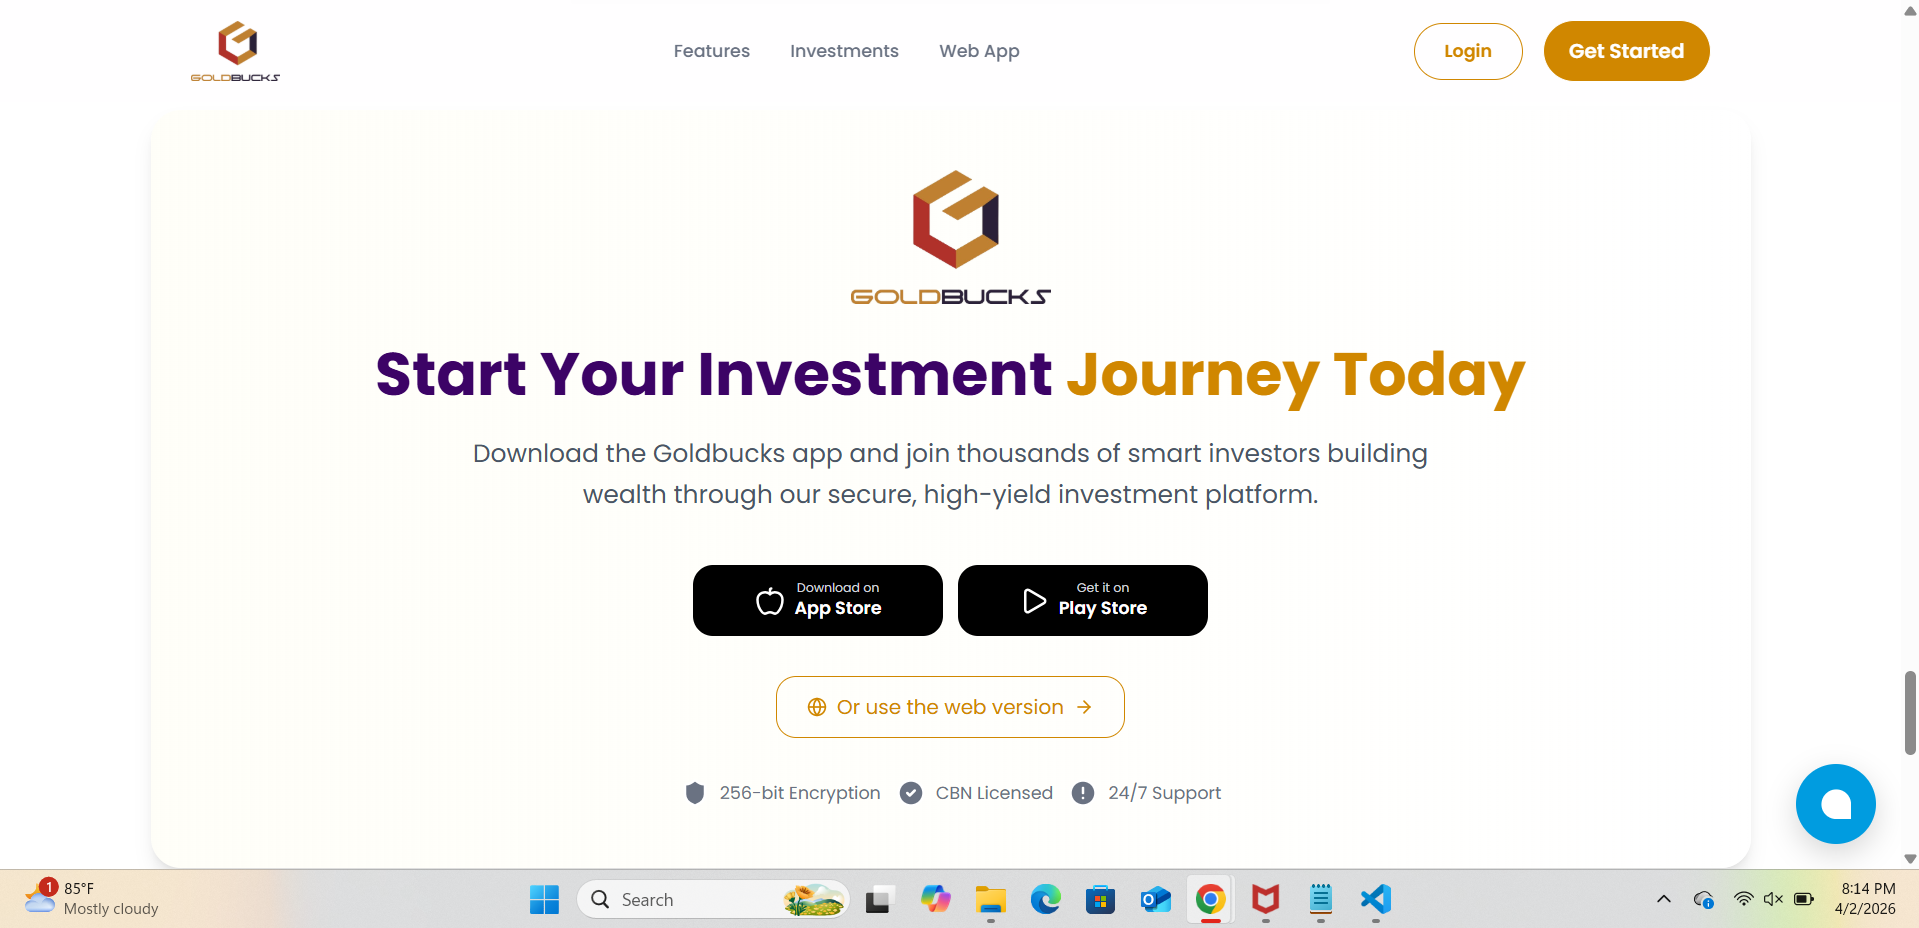
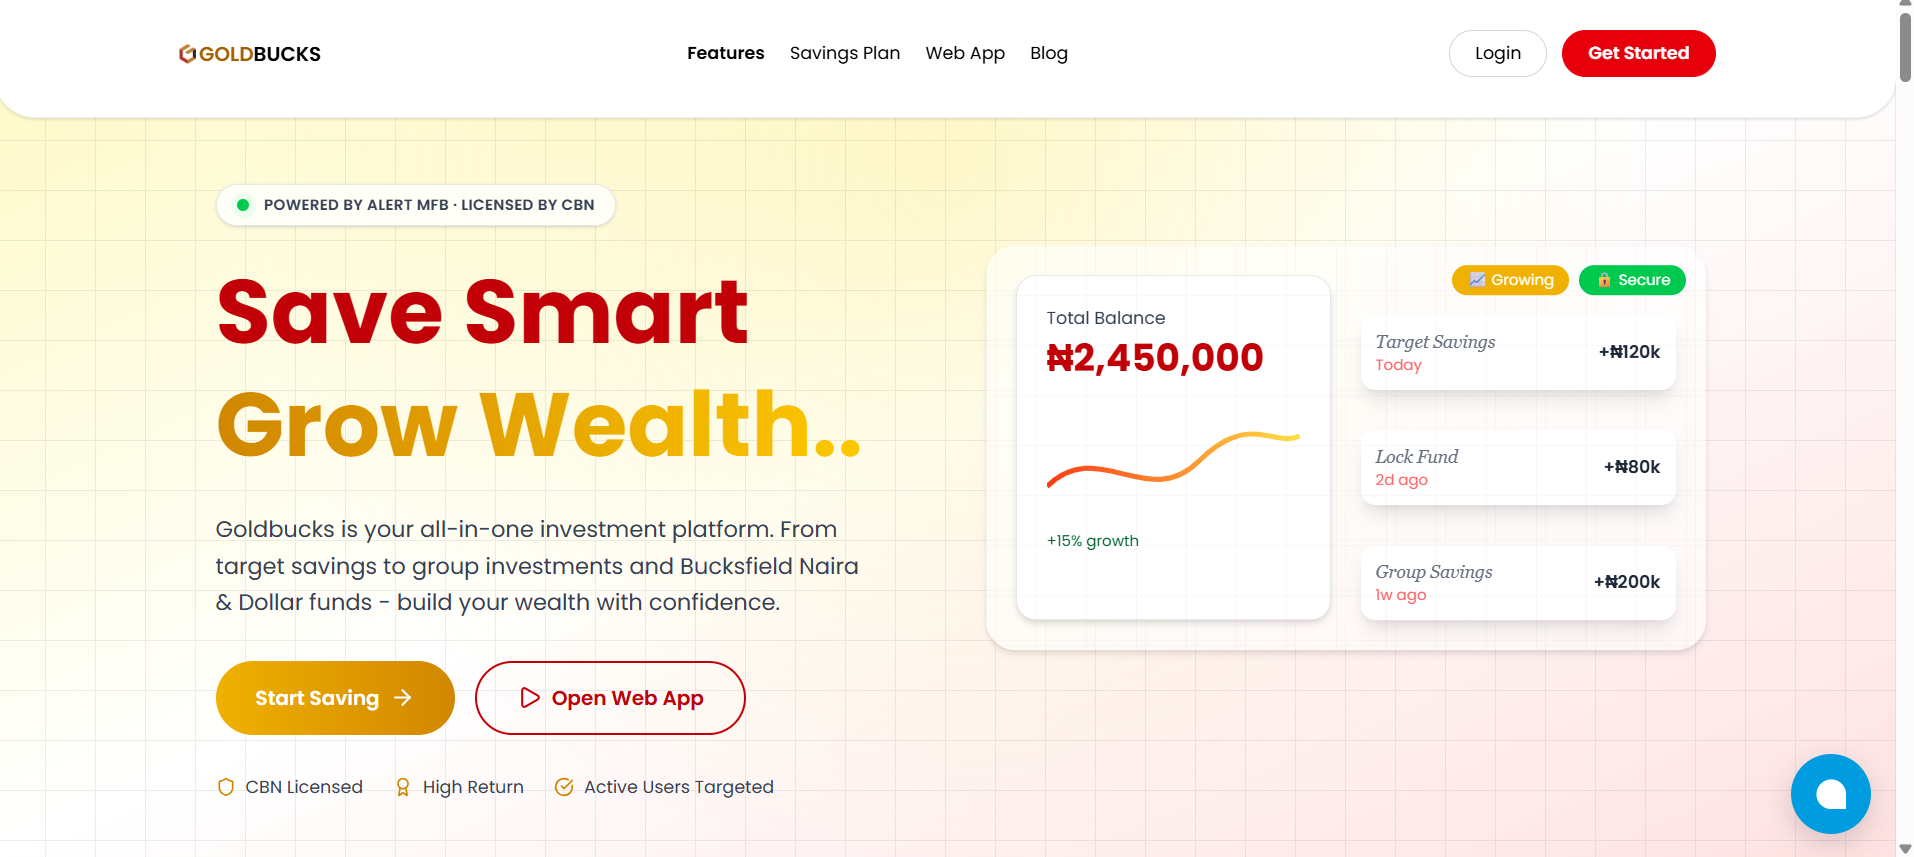
new project added

diff --git a/src/components/Projects.tsx b/src/components/Projects.tsx
@@ -26,7 +26,14 @@ const featuredProjects = [
     href: "https://elancitravels.onrender.com/",
     image: "/elanciTravels.png",
   },
-  
+  {
+    title: "Goldbucks",
+    description: "Goldbucks is your all-in-one investment platform. From target savings to group investments and Bucksfield Naira & Dollar funds - build your wealth with confidence.",
+    tech: ["React", "TypeScript", "Firebase"],
+    Address: "goldbucks.alertmfb.com.ng",
+    href: "https://www.goldbucks.alertmfb.com.ng/",
+    image: "/goldbucks.png",
+  }
 ];
 
 
@@ -77,18 +84,18 @@ const Projects = () => {
               {/* Project Content */}
               <div className={`md:col-span-6 ${index % 2 === 1 ? 'md:col-start-1 md:row-start-1' : 'md:col-start-7'} md:absolute md:inset-0 flex flex-col justify-center px-4 md:px-0`}
               >
-                <p className="text-[#64ffda] font-mono text-sm mb-2">Featured Project</p>
-                <h3 className="text-2xl md:text-3xl font-bold text-black mb-4">{project.title}</h3>
+                <p className="text-yellow-500 font-mono text-sm mb-2">Featured Project</p>
+                <h3 className="text-2xl md:text-3xl font-bold text-yellow-500 mb-4">{project.title}</h3>
                 <div className="bg-gray-100 p-6 rounded-2xl shadow-md mb-4 border border-gray-200">
-                  <p className="text-gray-600 text-sm leading-relaxed">{project.description}</p>
+                  <p className="text-gray-500 text-sm leading-relaxed">{project.description}</p>
                 </div>
-                <ul className={`flex flex-wrap gap-3 mb-6 text-sm font-mono text-gray-600 ${index % 2 === 1 ? 'md:justify-end' : ''}`}>
+                <ul className={`flex flex-wrap gap-3 mb-6 text-sm font-mono text-yellow-500 ${index % 2 === 1 ? 'md:justify-end' : ''}`}>
                   {project.tech.map((tech) => <li key={tech}>{tech}</li>)}
                 </ul>
-                <div className={`flex gap-3 items-center text-gray-400 ${index % 2 === 1 ? 'md:justify-end' : ''}`}>
+                <div className={`flex gap-3 items-center text-yellow-500 ${index % 2 === 1 ? 'md:justify-end' : ''}`}>
                   <a href={project.href} target="_blank" rel="noopener noreferrer" className="flex items-center gap-2 hover:underline">
-                    <MapPin size={20} className="animate-bounce" />
-                    <span>{project.Address}</span>
+                    <MapPin size={20} className="animate-bounce text-yellow-500" />
+                    <span className="text-yellow-500">{project.Address}</span>
                   </a>
                 </div>
               </div>

diff --git a/src/components/About.tsx b/src/components/About.tsx
@@ -1,6 +1,6 @@
 import { Github, Linkedin, Mail } from "lucide-react";
 import { motion } from "framer-motion";
-
+import me from "/me.jpeg";
 const About = () => {
   return (
     <section id="about" className="py-24 bg-white text-gray-900">
@@ -77,7 +77,7 @@ const About = () => {
 
             {/* Image */}
             <img
-              src="https://media.craiyon.com/2024-09-19/pTqdzlorS-uGf367PYXzSA.webp"
+              src={me}
               alt="Enitan Ajayi"
               className="relative w-72 h-72 md:w-80 md:h-80 object-cover rounded-2xl shadow-lg"
             />
